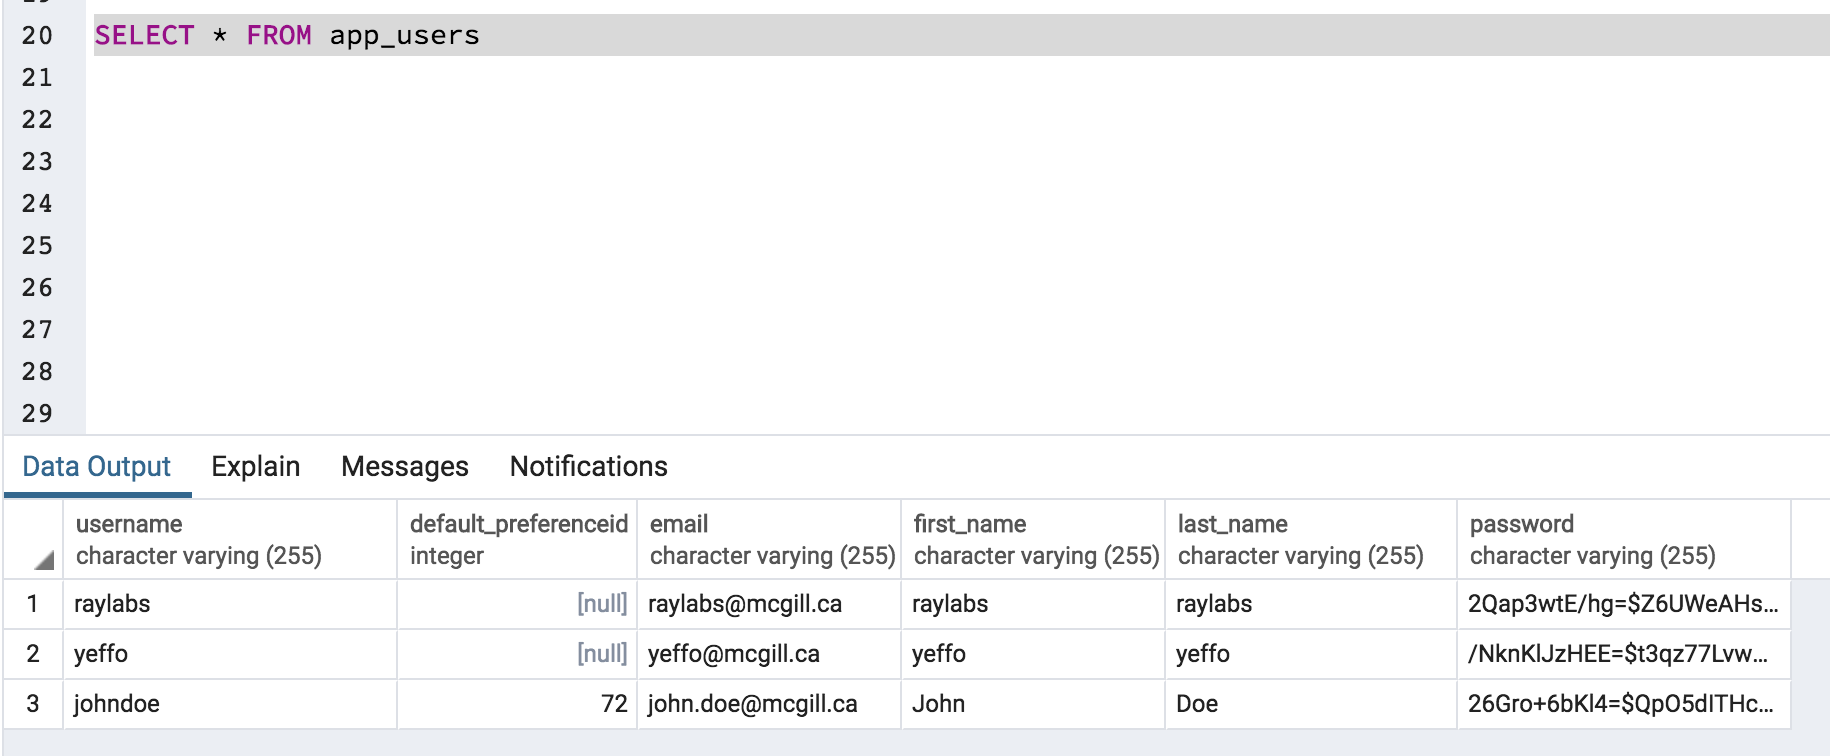
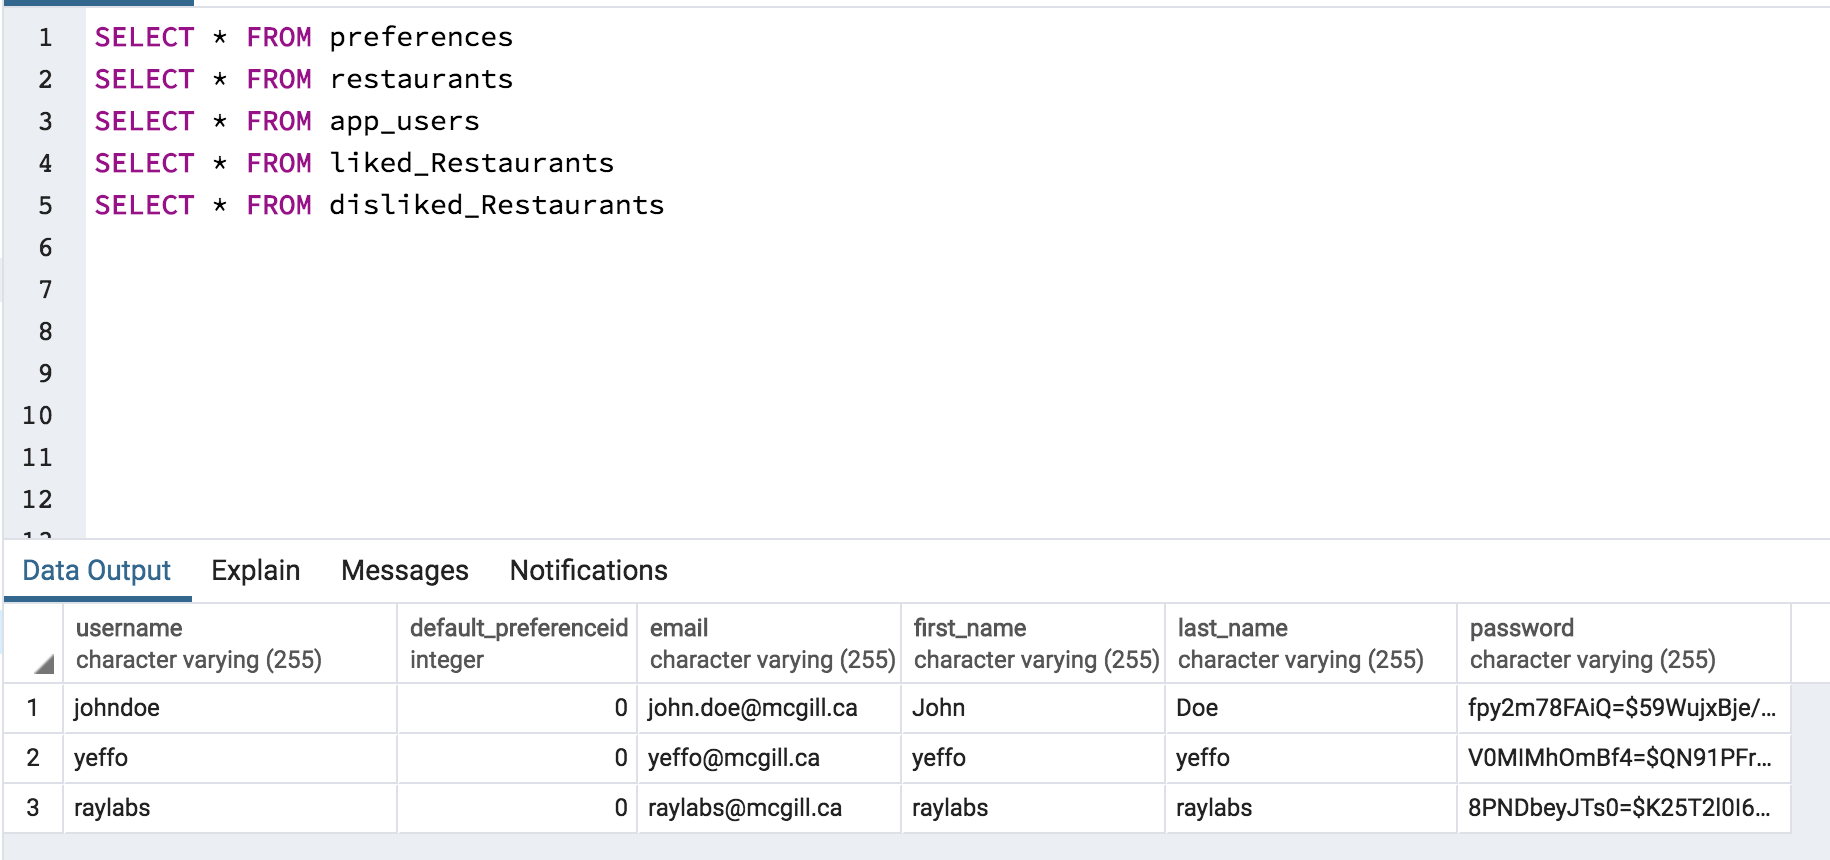
resolved errors

Changed region(s): [[0.0, 0.4259, 0.9656, 0.9735], [0.0, 0.0, 1.0, 0.3347], [0.0, 0.3651, 0.0311, 0.3955]]

diff --git a/src/main/java/ca/mcgill/ecse428/foodme/repository/FoodmeRepository.java b/src/main/java/ca/mcgill/ecse428/foodme/repository/FoodmeRepository.java
@@ -264,27 +264,30 @@ public class FoodmeRepository {
 	 */
 	@Transactional
 	public Restaurant addLiked(String username, String restaurantID, String restaurantName) throws Exception {
-        AppUser appUser = null;
-        try {
-            appUser = getAppUser(username);
-        } catch (Exception e) {
-            e.printStackTrace();
-        }
-        Restaurant restaurant = entityManager.find(Restaurant.class, restaurantID);
+		AppUser appUser = new AppUser();
+		Restaurant restaurant = new Restaurant();
+		try {
+			appUser = entityManager.find(AppUser.class,username);
+			restaurant = entityManager.find(Restaurant.class, restaurantID);
+		} catch (Exception e) {
+			e.printStackTrace();
+		}
+		if(appUser == null){
+			throw new Exception("User does not exist");
+		}
 		if(restaurant == null){
-			createRestaurant(restaurantID,restaurantName);
+			restaurant = createRestaurant(restaurantID,restaurantName);
 		}
 		//Check if restaurant is liked by user
 		if(appUser.getDislikedRestaurants().contains(restaurant)){
-			throw new Exception ("Restaurant is disliked");
+			throw new Exception ("Restaurant is liked");
 		}
-		else {
-			appUser.addlikedRestaurants(restaurant);
-			restaurant.addLikedAppUsers(appUser);
-			entityManager.merge(appUser);
-			entityManager.merge(restaurant);
-			return restaurant;
-		}
+
+		appUser.addlikedRestaurants(restaurant);
+		restaurant.addLikedAppUsers(appUser);
+		entityManager.merge(appUser);
+		entityManager.merge(restaurant);
+		return restaurant;
 	}
 
 	/**
@@ -306,27 +309,31 @@ public class FoodmeRepository {
      */
     @Transactional
     public Restaurant addDisliked(String username, String restaurantID, String restaurantName) throws Exception {
-        AppUser appUser = null;
-        try {
-            appUser = getAppUser(username);
-        } catch (Exception e) {
+        AppUser appUser = new AppUser();
+		Restaurant restaurant = new Restaurant();
+		try {
+            appUser = entityManager.find(AppUser.class,username);
+			restaurant = entityManager.find(Restaurant.class, restaurantID);
+		} catch (Exception e) {
             e.printStackTrace();
         }
-        Restaurant restaurant = entityManager.find(Restaurant.class, restaurantID);
-        if(restaurant == null){
-			createRestaurant(restaurantID,restaurantName);
+		if(appUser == null){
+			throw new Exception("User does not exist");
 		}
+        if(restaurant == null){
+			restaurant=createRestaurant(restaurantID,restaurantName);
+		}
+
         //Check if restaurant is liked by user
         if(appUser.getlikedRestaurants().contains(restaurant)){
         	throw new Exception ("Restaurant is liked");
 		}
-        else {
-			appUser.addDislikedRestaurants(restaurant);
-			restaurant.addDislikedAppUsers(appUser);
-			entityManager.merge(appUser);
-			entityManager.merge(restaurant);
-			return restaurant;
-		}
+
+        appUser.addDislikedRestaurants(restaurant);
+        restaurant.addDislikedAppUsers(appUser);
+        entityManager.merge(appUser);
+        entityManager.merge(restaurant);
+        return restaurant;
     }
 
     /**

diff --git a/src/test/java/ca/mcgill/ecse428/foodme/ControllerTests.java b/src/test/java/ca/mcgill/ecse428/foodme/ControllerTests.java
@@ -25,8 +25,7 @@ public class ControllerTests {
     public void testLoginSuccess() throws Exception {
         HttpEntity<String> entity = new HttpEntity<String>(null, headers);
         ResponseEntity<String> response = restTemplate.exchange(
-                createURLWithPort("/users/auth/raylabs/raylabs"), HttpMethod.GET, entity, String.class);
-        //String expected = "{\"username\":raylabs,\"password\":raylabs}";
+                createURLWithPort("/users/auth/johndoe/helloworld"), HttpMethod.GET, entity, String.class);
         String expected ="{\"response\":true,\"error\":null}";
         JSONAssert.assertEquals(expected, response.getBody(), false);
     }
@@ -35,7 +34,7 @@ public class ControllerTests {
     public void testLoginWithInvalidPassword() throws Exception {
         HttpEntity<String> entity = new HttpEntity<String>(null, headers);
         ResponseEntity<String> response = restTemplate.exchange(
-                createURLWithPort("/users/auth/raylabs/none"), HttpMethod.GET, entity, String.class);
+                createURLWithPort("/users/auth/johndoe/none"), HttpMethod.GET, entity, String.class);
         String expected ="{\"response\":false,\"error\":\"Invalid Password\"}";
         JSONAssert.assertEquals(expected, response.getBody(), false);
     }

diff --git a/src/main/java/ca/mcgill/ecse428/foodme/controller/Controller.java b/src/main/java/ca/mcgill/ecse428/foodme/controller/Controller.java
@@ -379,6 +379,21 @@ public class Controller {
 		return liked;
 	}
 
+	/**
+	 * Controller Method that takes a user and the ID of the restaurants they disliked to add it in their liked restaurants
+	 * @param username of the user on the application
+	 * @param restaurantID
+	 * @param restaurantName
+	 */
+	@PostMapping("/users/{user}/disliked/{id}")
+	public void addDisliked(@PathVariable("user") String username, @PathVariable("id") String restaurantID, @RequestParam String restaurantName) {
+		try {
+			repository.addDisliked(username, restaurantID,restaurantName);
+		} catch (Exception e) {
+			e.printStackTrace();
+		}
+	}
+
     /**
      * Controller method to get all restaurants from a location
      * @param location
